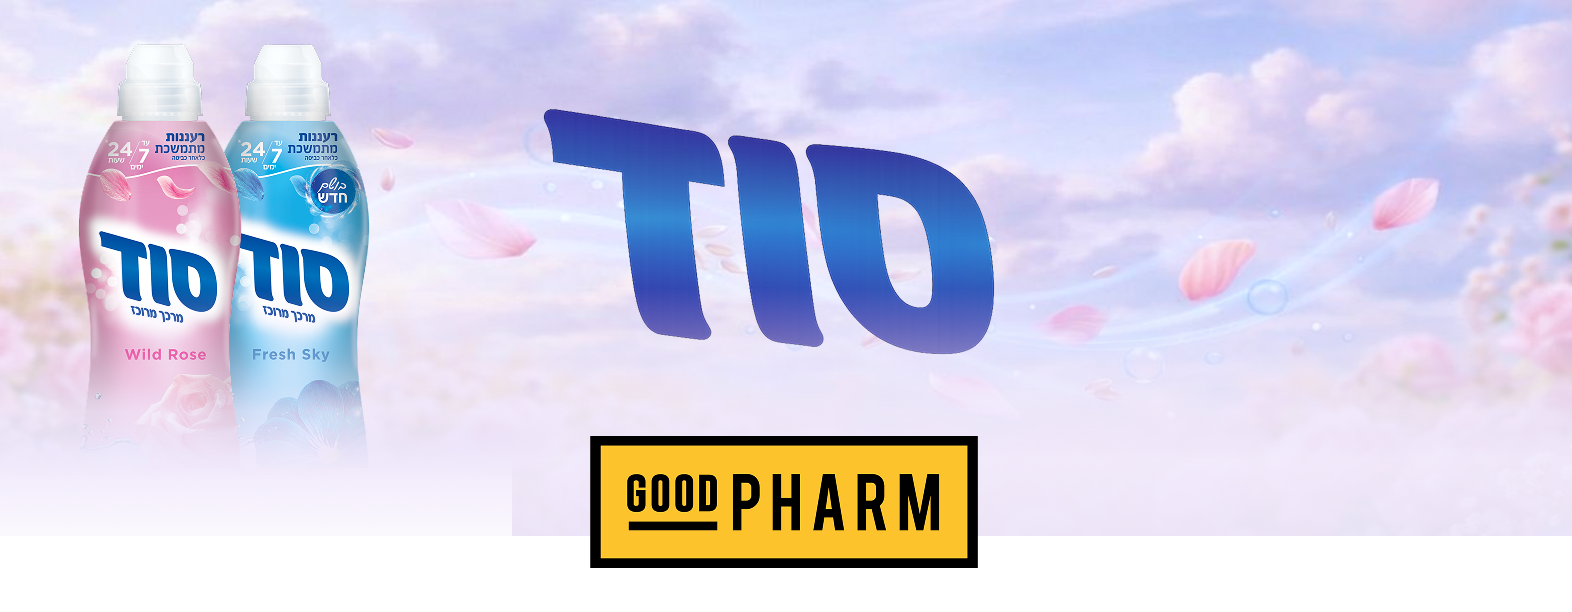
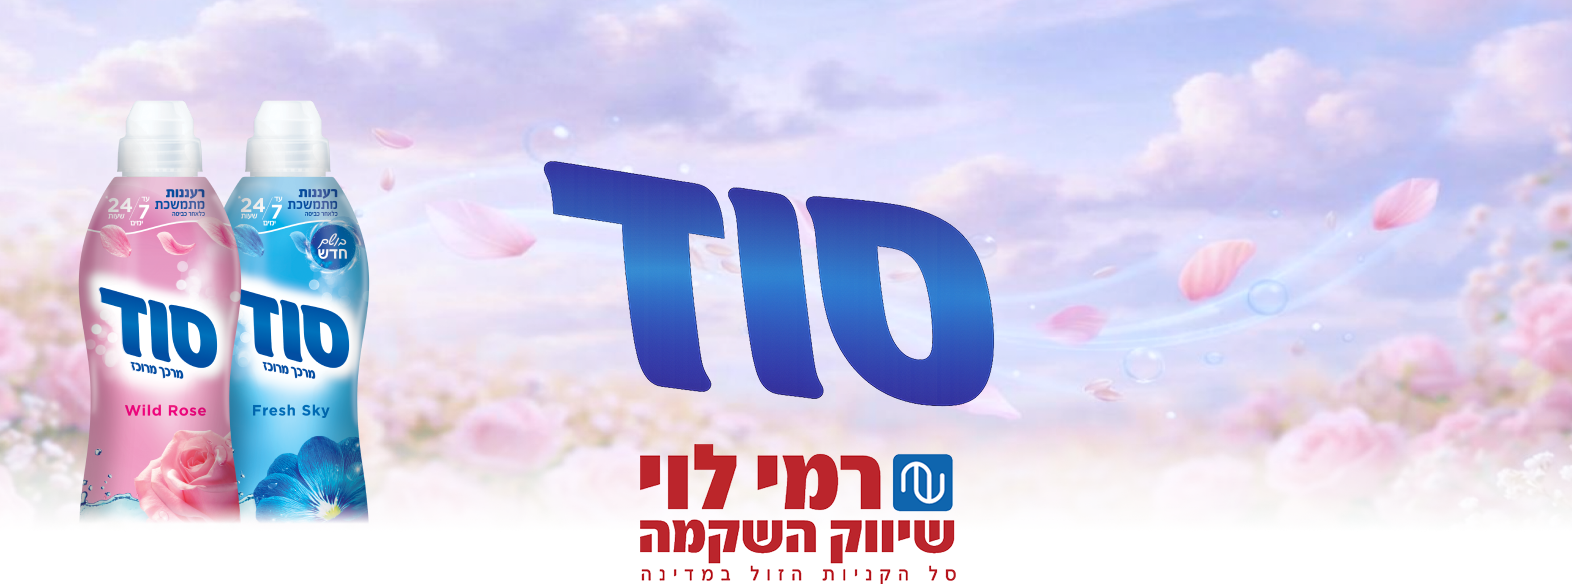
separated ramilevygoodpharm

diff --git a/src/config/brands.js b/src/config/brands.js
@@ -1,5 +1,6 @@
 import superpharmTopLogo from '../assets/images/superpharm_4x.png'
 import ramilevyTopLogo from '../assets/images/ramilevy_4x.png'
+import goodpharmTopLogo from '../assets/images/goodpharm_4x.png'
 import yochananaofTopLogo from '../assets/images/yochananof_4x.png'
 
 function submissionsTableFromEnv(specificKey, fallback) {
@@ -90,22 +91,21 @@ export const brands = {
     },
     personal: {
       showNetworkSelect: false,
-      termsVariant: 'default',
     },
   },
-  ramilevygoodpharm: {
-    slug: 'ramilevygoodpharm',
-    id: 'ramilevygoodpharm',
-    campaignName: 'רמי לוי / גוד פארם',
+  ramilevy: {
+    slug: 'ramilevy',
+    id: 'ramilevy',
+    campaignName: 'רמי לוי שיווק השקמה',
     logo: ramilevyTopLogo,
     submissionsTable: submissionsTableFromEnv(
-      'VITE_SUPABASE_SUBMISSIONS_TABLE_RAMILEVY_GOOD_PHARM',
-      'questionnaire_submissions_ramilevy_good_pharm',
+      'VITE_SUPABASE_SUBMISSIONS_TABLE_RAMILEVY',
+      'questionnaire_submissions_ramilevy',
     ),
     questions: superPharmQuestions,
     home: {
       heroLines: ['סוד מזמינה אותך להשתתף בתחרות ולזכות במגוון', 'פרסים שווים!'],
-      heroQuestionLines: ['רכשת לפחות 3 מוצרי סוד מרככים', 'מרוכזים ברשת רמי לוי או גוד פארם?'],
+      heroQuestionLines: ['רכשת לפחות 3 מוצרי סוד מרככים', 'מרוכזים ברשת רמי לוי שיווק השקמה?'],
       heroNoteLines: ['זו ההזדמנות שלך להשתתף בתחרות בלעדית', 'ולהתפנק בפרסים שווים במיוחד!'],
       prizes: [
         {
@@ -138,12 +138,55 @@ export const brands = {
       ],
     },
     personal: {
-      showNetworkSelect: true,
-      networkOptions: [
-        { id: 'rami-levy-shivuk-hashikma', label: 'רמי לוי שיווק השקמה' },
-        { id: 'good-pharm', label: 'GOOD PHARM' },
+      showNetworkSelect: false,
+    },
+  },
+  goodpharm: {
+    slug: 'goodpharm',
+    id: 'goodpharm',
+    campaignName: 'GOOD PHARM',
+    logo: goodpharmTopLogo,
+    submissionsTable: submissionsTableFromEnv(
+      'VITE_SUPABASE_SUBMISSIONS_TABLE_GOODPHARM',
+      'questionnaire_submissions_goodpharm',
+    ),
+    questions: superPharmQuestions,
+    home: {
+      heroLines: ['סוד מזמינה אותך להשתתף בתחרות ולזכות במגוון', 'פרסים שווים!'],
+      heroQuestionLines: ['רכשת לפחות 3 מוצרי סוד מרככים', 'מרוכזים ברשת GOOD PHARM?'],
+      heroNoteLines: ['זו ההזדמנות שלך להשתתף בתחרות בלעדית', 'ולהתפנק בפרסים שווים במיוחד!'],
+      prizes: [
+        {
+          place: 'מקום 1',
+          main: 'שובר ביימי בשווי 3,000 שקלים!',
+        },
+        {
+          place: 'מקום 2',
+          main: 'שובר ביימי בסך 1,000 שקלים!',
+          sub: 'ועשרת הזוכים הבאים יזכו במארז של סוד מרככים מרוכזים בשווי 400 שקלים!',
+        },
       ],
-      termsVariant: 'ramiGoodPharm',
+      participationSteps: [
+        {
+          id: 1,
+          title: 'ממלאים פרטים אישיים',
+          description: 'כל הפרטים נשמרים במערכת מאובטחת',
+        },
+        {
+          id: 2,
+          title: 'עונים על שאלון קצר',
+          description: 'התחרות מבוססת על זמן ומענה מדויק',
+        },
+        {
+          id: 3,
+          title: 'מעלים צילום חשבונית',
+          description:
+            'מעלים צילום של חשבונית המעידה על רכישה של לפחות 3 מוצרי סוד מרכך מרוכז',
+        },
+      ],
+    },
+    personal: {
+      showNetworkSelect: false,
     },
   },
   yochananof: {
@@ -192,7 +235,6 @@ export const brands = {
     },
     personal: {
       showNetworkSelect: false,
-      termsVariant: 'default',
     },
   },
 }

diff --git a/src/pages/personal/PersonalDetailsPage.jsx b/src/pages/personal/PersonalDetailsPage.jsx
@@ -29,18 +29,16 @@ const termsDocsByBrand = {
       src: superpharmRegulationsPdf,
     },
   },
-  ramilevygoodpharm: {
-    ramiLevy: {
+  ramilevy: {
+    default: {
       title: 'תקנון רמי לוי שיווק השקמה',
       src: ramiLevyRegulationsPdf,
     },
-    goodPharm: {
+  },
+  goodpharm: {
+    default: {
       title: 'תקנון GOOD PHARM',
       src: goodPharmRegulationsPdf,
-    },
-    default: {
-      title: 'תקנון רמי לוי / GOOD PHARM',
-      src: ramiLevyRegulationsPdf,
     },
   },
   yochananof: {
@@ -317,49 +315,20 @@ export function PersonalDetailsPage() {
                   checked={acceptedTerms}
                   onChange={(e) => setAcceptedTerms(e.target.checked)}
                 />
-                {personal.termsVariant === 'ramiGoodPharm' ? (
-                  <span className="terms-text" dir="rtl">
-                    <span className="terms-link-intro">אני מאשר/ת את </span>
-                    <a
-                      href="#"
-                      className="terms-link terms-link-line terms-link-line--inline"
-                      onClick={(e) => {
-                        e.preventDefault()
-                        e.stopPropagation()
-                        openTermsModal('ramiLevy')
-                      }}
-                    >
-                      תקנון רמי לוי שיווק השקמה
-                    </a>
-                    <span aria-hidden="true"> / </span>
-                    <a
-                      href="#"
-                      className="terms-link terms-link-line terms-link-line--block"
-                      onClick={(e) => {
-                        e.preventDefault()
-                        e.stopPropagation()
-                        openTermsModal('goodPharm')
-                      }}
-                    >
-                      תקנון GOOD PHARM
-                    </a>
-                  </span>
-                ) : (
-                  <span className="terms-text">
-                    אני מאשר/ת את{' '}
-                    <a
-                      href="#"
-                      className="terms-link"
-                      onClick={(e) => {
-                        e.preventDefault()
-                        e.stopPropagation()
-                        openTermsModal('default')
-                      }}
-                    >
-                      תקנון התחרות
-                    </a>
-                  </span>
-                )}
+                <span className="terms-text">
+                  אני מאשר/ת את{' '}
+                  <a
+                    href="#"
+                    className="terms-link"
+                    onClick={(e) => {
+                      e.preventDefault()
+                      e.stopPropagation()
+                      openTermsModal('default')
+                    }}
+                  >
+                    תקנון התחרות
+                  </a>
+                </span>
               </label>
             </form>
 
@@ -397,7 +366,7 @@ export function PersonalDetailsPage() {
                   <span aria-hidden="true">×</span>
                 </button>
                 <h2 id="terms-modal-title" className="terms-modal-title">
-                  תקנון התחרות
+                  {termsDocConfig.title}
                 </h2>
                 <div className="terms-modal-body">
                   <a

diff --git a/src/app/App.jsx b/src/app/App.jsx
@@ -1,5 +1,13 @@
 import { useEffect } from 'react'
-import { BrowserRouter, Navigate, Outlet, Route, Routes, useParams } from 'react-router-dom'
+import {
+  BrowserRouter,
+  Navigate,
+  Outlet,
+  Route,
+  Routes,
+  useLocation,
+  useParams,
+} from 'react-router-dom'
 import { getBrandBySlug } from '../config/brands.js'
 import { BrandContext } from '../context/BrandContext.jsx'
 import { HomePage } from '../pages/home/HomePage.jsx'
@@ -8,6 +16,14 @@ import { QuestionsPage } from '../pages/questions/QuestionsPage.jsx'
 import { InvoicePage } from '../pages/invoice/InvoicePage.jsx'
 import { ConfirmationPage } from '../pages/confirmation/ConfirmationPage.jsx'
 import soadClearLogo from '../assets/images/Soad_Clear_logo.png'
+
+function LegacyRamilevyGoodPharmRedirect() {
+  const location = useLocation()
+  const { '*': splat } = useParams()
+  const rest = (splat ?? '').replace(/^\/+/, '')
+  const to = rest ? `/ramilevy/${rest}` : '/ramilevy'
+  return <Navigate to={`${to}${location.search}${location.hash}`} replace />
+}
 
 function BrandLayout() {
   const { brand: brandSlug } = useParams()
@@ -19,7 +35,8 @@ function BrandLayout() {
   useEffect(() => {
     const titlesByBrand = {
       superpharm: 'Superpharm',
-      ramilevygoodpharm: 'Ramilevy Goodpharm',
+      ramilevy: 'Rami Levy',
+      goodpharm: 'Good Pharm',
       yochananof: 'Yochananof',
     }
     document.title = titlesByBrand[brand.slug] ?? 'Superpharm'
@@ -46,6 +63,8 @@ function App() {
     <BrowserRouter>
       <Routes>
         <Route path="/" element={<Navigate to="/superpharm" replace />} />
+        <Route path="/ramilevygoodpharm" element={<Navigate to="/ramilevy" replace />} />
+        <Route path="/ramilevygoodpharm/*" element={<LegacyRamilevyGoodPharmRedirect />} />
         <Route path="/:brand" element={<BrandLayout />}>
           <Route index element={<HomePage />} />
           <Route path="personal" element={<PersonalDetailsPage />} />

diff --git a/src/pages/invoice/InvoicePage.jsx b/src/pages/invoice/InvoicePage.jsx
@@ -39,7 +39,8 @@ async function buildInvoiceAccessUrl(filePath) {
 function mapNetworkForSubmission(brandSlug, networkValue) {
   if (brandSlug === 'superpharm') return 'Superpharm'
   if (brandSlug === 'yochananof') return 'Yochananof'
-  if (brandSlug !== 'ramilevygoodpharm') return ''
+  if (brandSlug === 'ramilevy') return 'Rami Levy'
+  if (brandSlug === 'goodpharm') return 'Good Pharm'
 
   if (networkValue === 'rami-levy-shivuk-hashikma' || networkValue === 'רמי לוי שיווק השקמה') {
     return 'Rami Levy'
@@ -53,7 +54,7 @@ function mapNetworkForSubmission(brandSlug, networkValue) {
 export function InvoicePage() {
   const navigate = useNavigate()
   const brand = useBrand()
-  const { logo, campaignName, submissionsTable, slug: brandSlug, personal } = brand
+  const { logo, campaignName, submissionsTable, slug: brandSlug } = brand
   const [invoiceFile, setInvoiceFile] = useState(null)
   const [isSubmitting, setIsSubmitting] = useState(false)
   const [errorMessage, setErrorMessage] = useState('')
